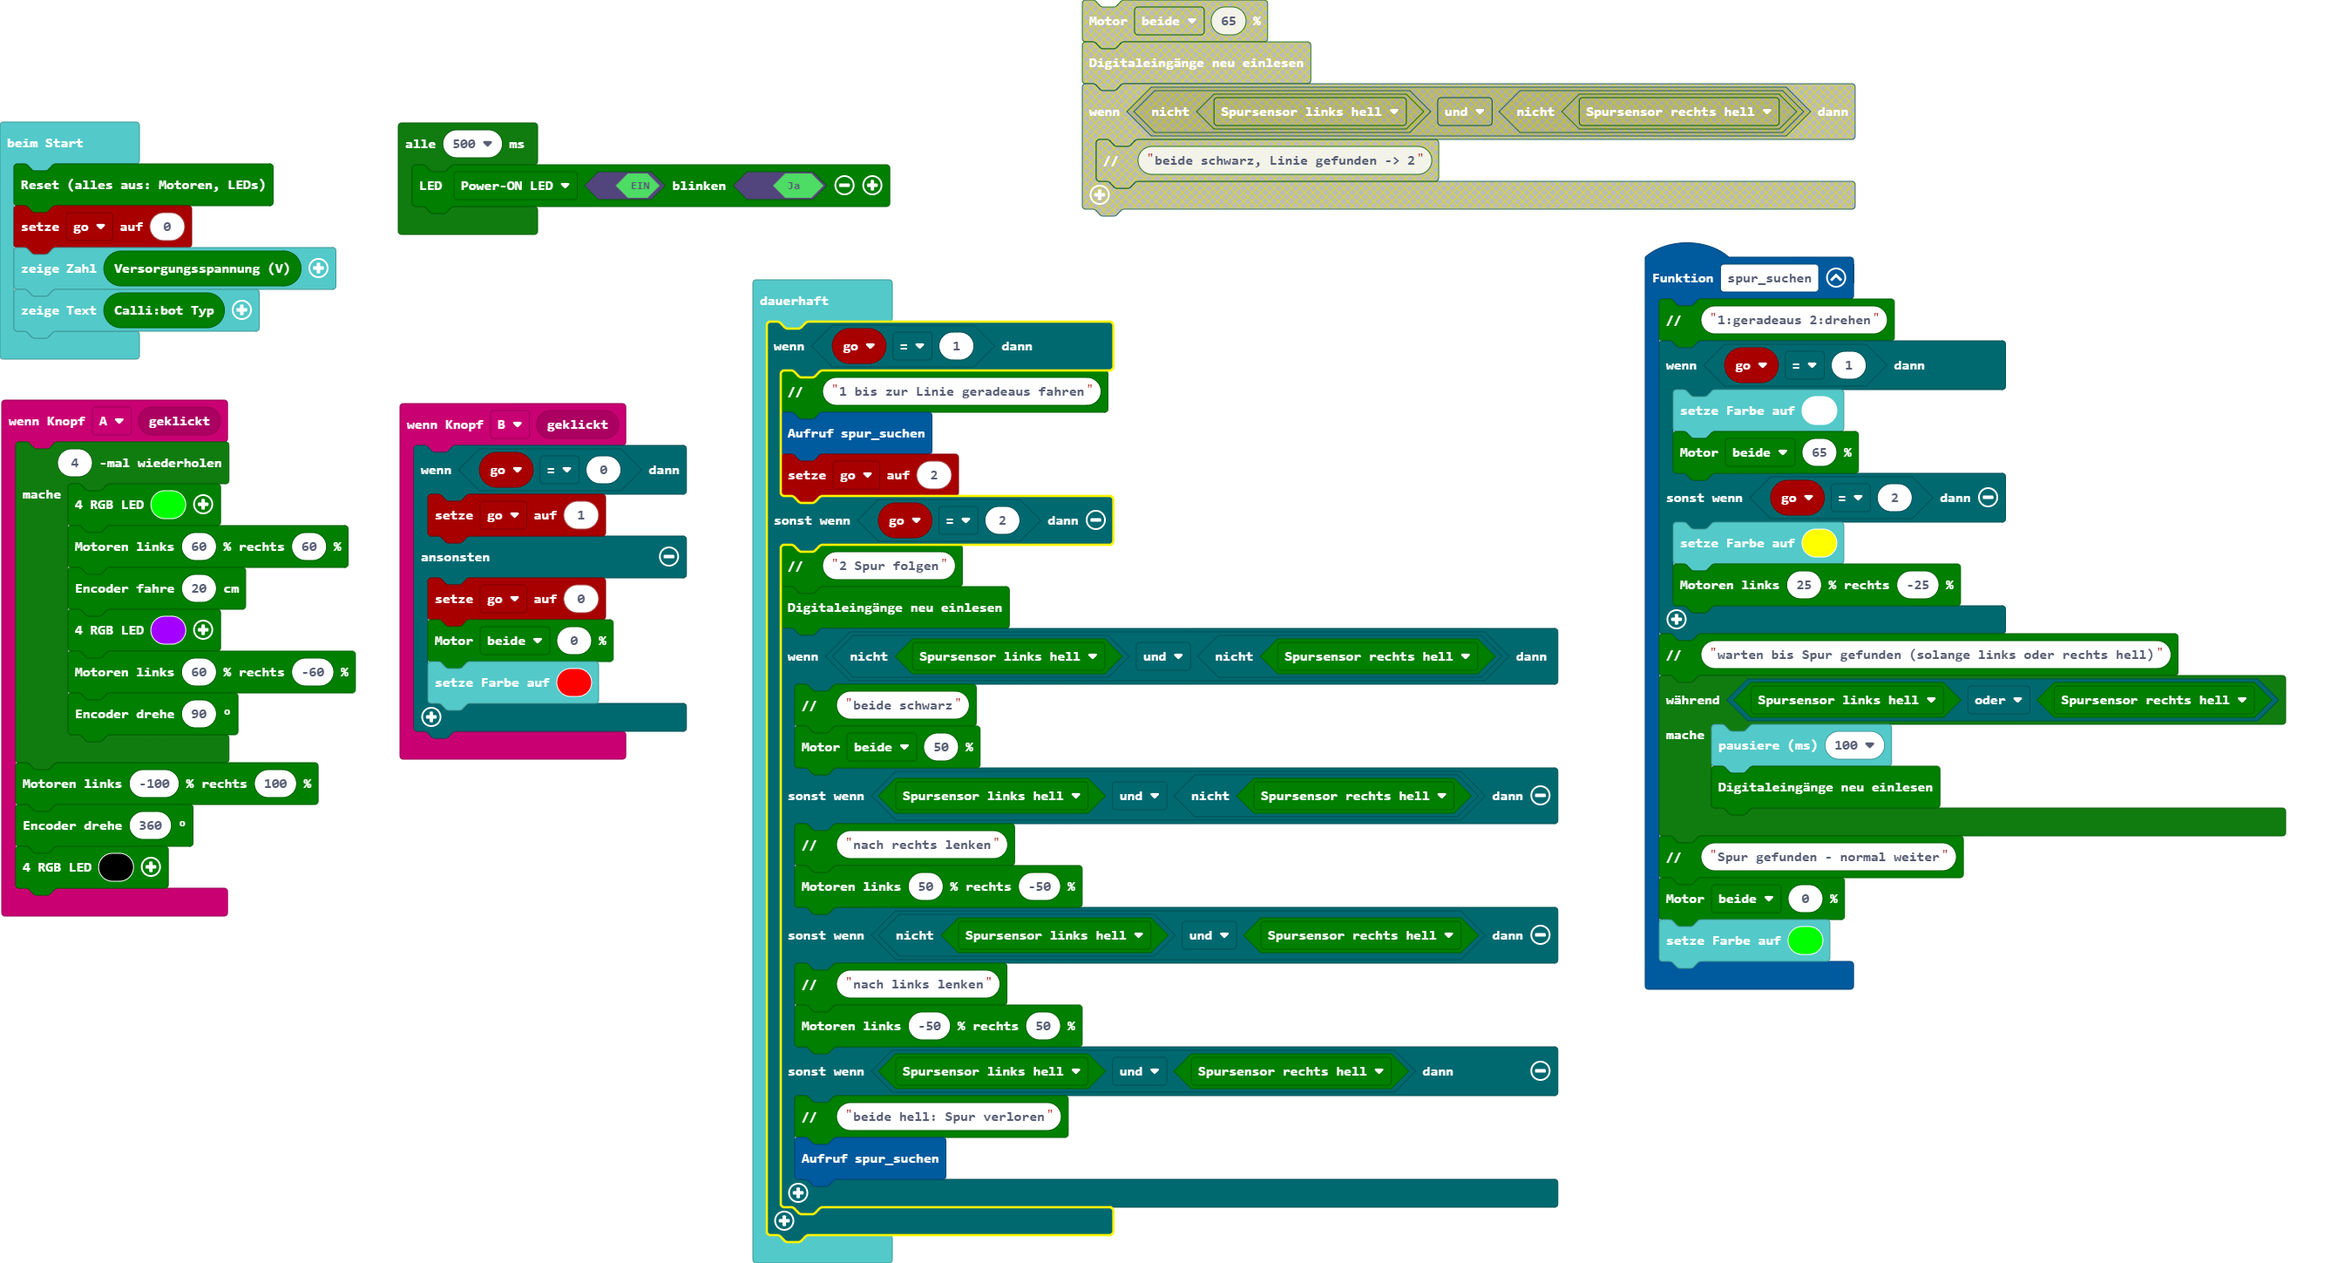
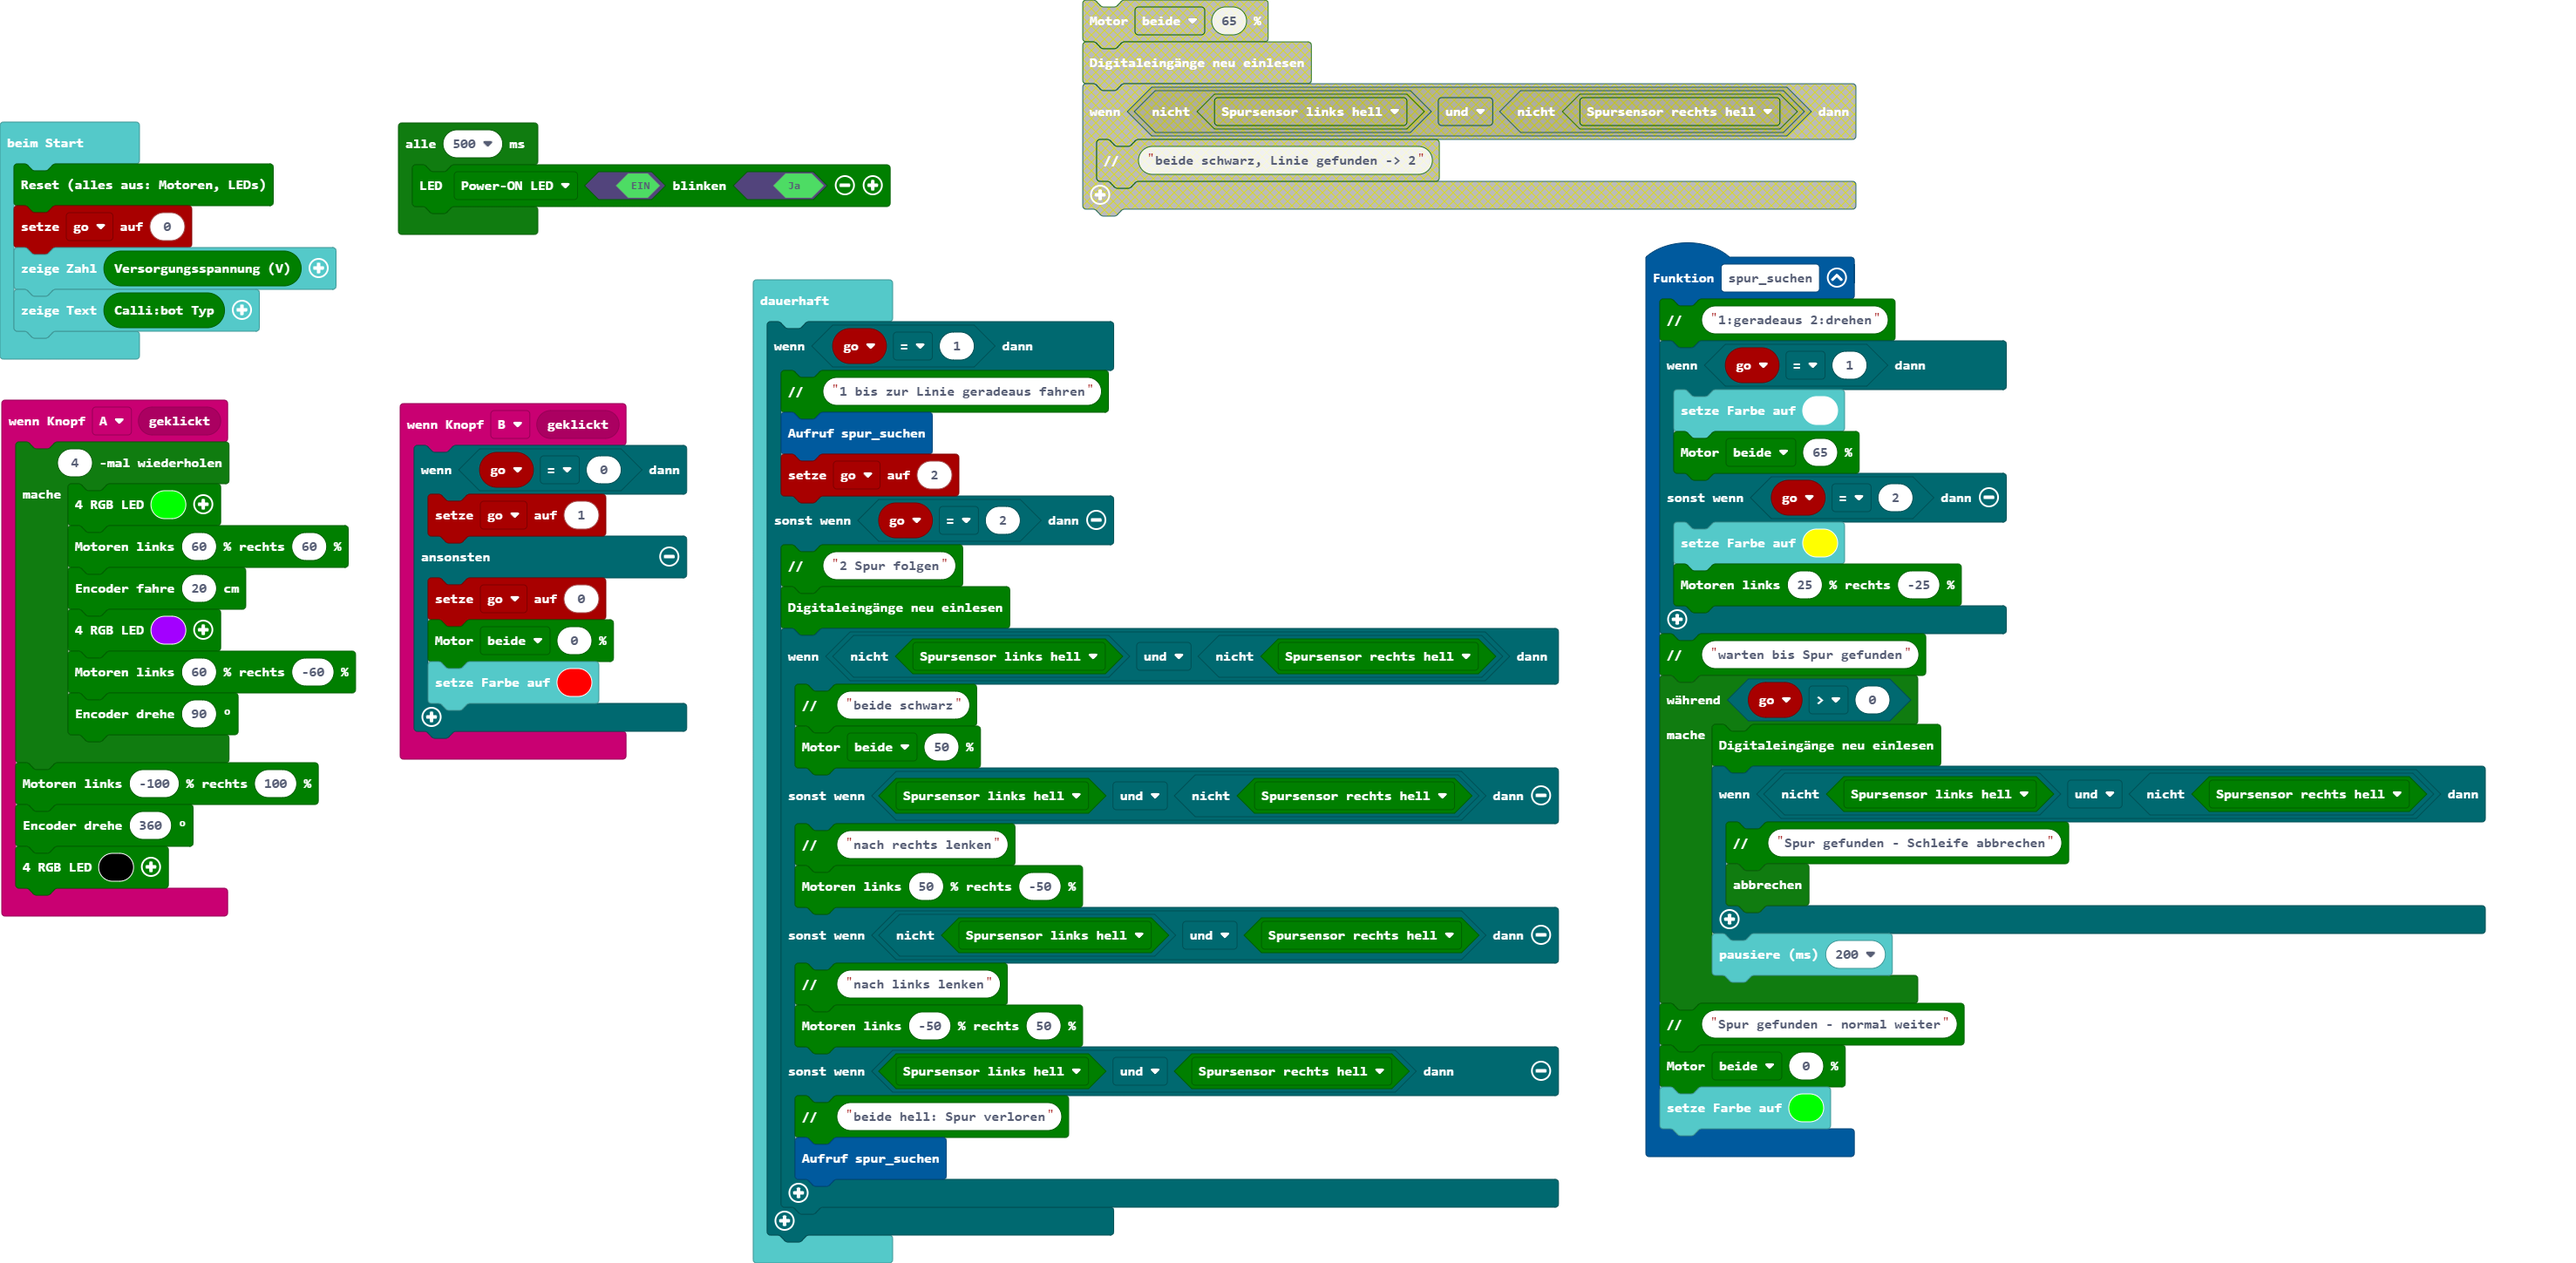
Aktualisiere main.blocks, main.ts

Changed region(s): [[0.0, 0.0, 0.9929, 1.0], [0.0, 0.0932, 0.1551, 0.2795]]

diff --git a/main.ts b/main.ts
@@ -20,10 +20,14 @@ function spur_suchen () {
         basic.setLedColor(0xffff00)
         callibot2.write_motoren_prozent(25, -25)
     }
-    callibot2.comment("warten bis Spur gefunden (solange links oder rechts hell)")
-    while (callibot2.get_inputs(callibot2.eINPUTS.sp2l) || callibot2.get_inputs(callibot2.eINPUTS.sp1r)) {
-        basic.pause(100)
+    callibot2.comment("warten bis Spur gefunden")
+    while (go > 0) {
         callibot2.read_inputs()
+        if (!(callibot2.get_inputs(callibot2.eINPUTS.sp2l)) && !(callibot2.get_inputs(callibot2.eINPUTS.sp1r))) {
+            callibot2.comment("Spur gefunden - Schleife abbrechen")
+            break;
+        }
+        basic.pause(200)
     }
     callibot2.comment("Spur gefunden - normal weiter")
     callibot2.write_motor_prozent(callibot2.eMotor.beide, 0)
